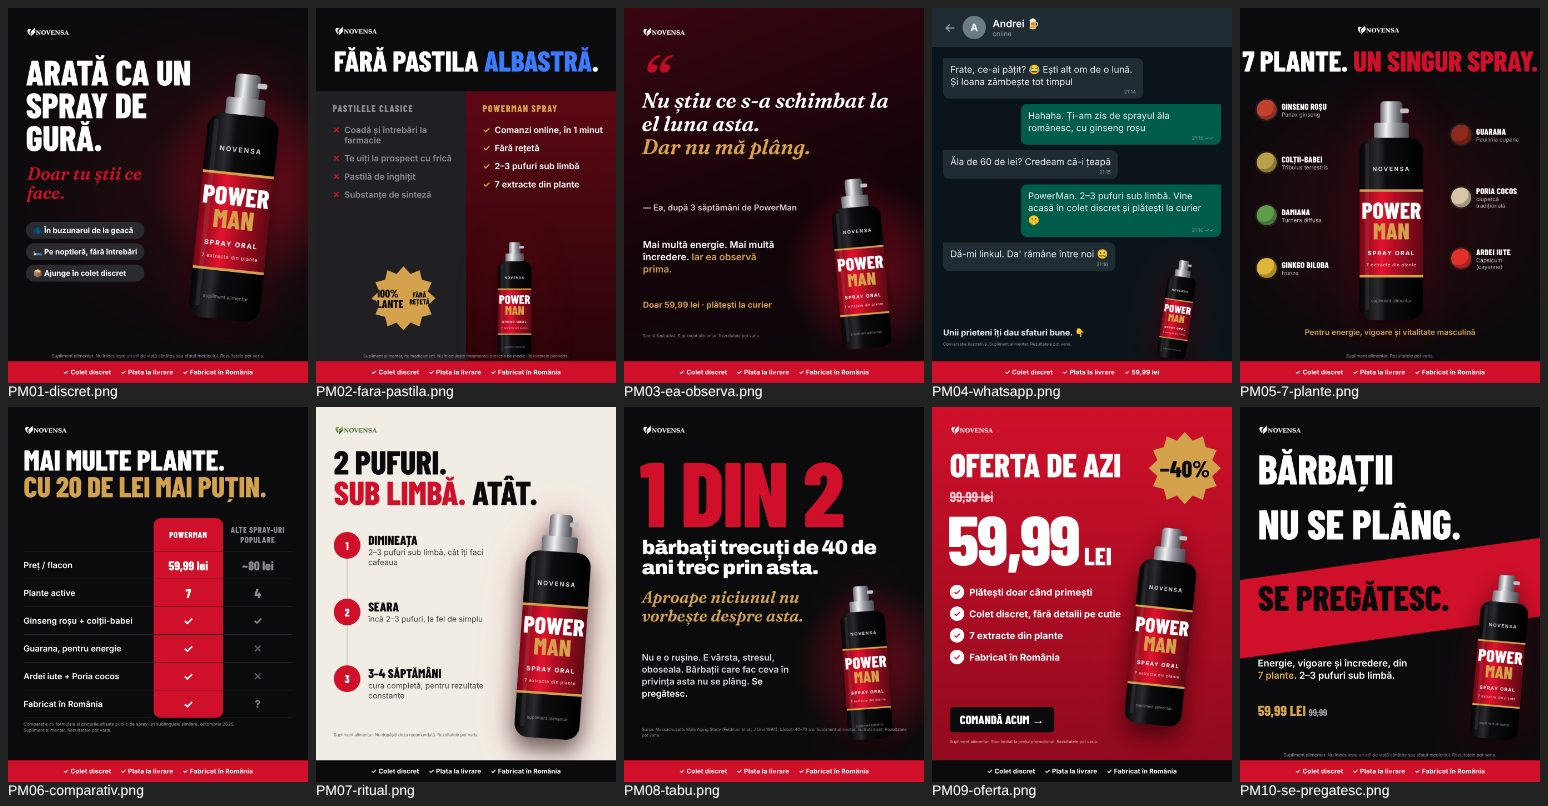
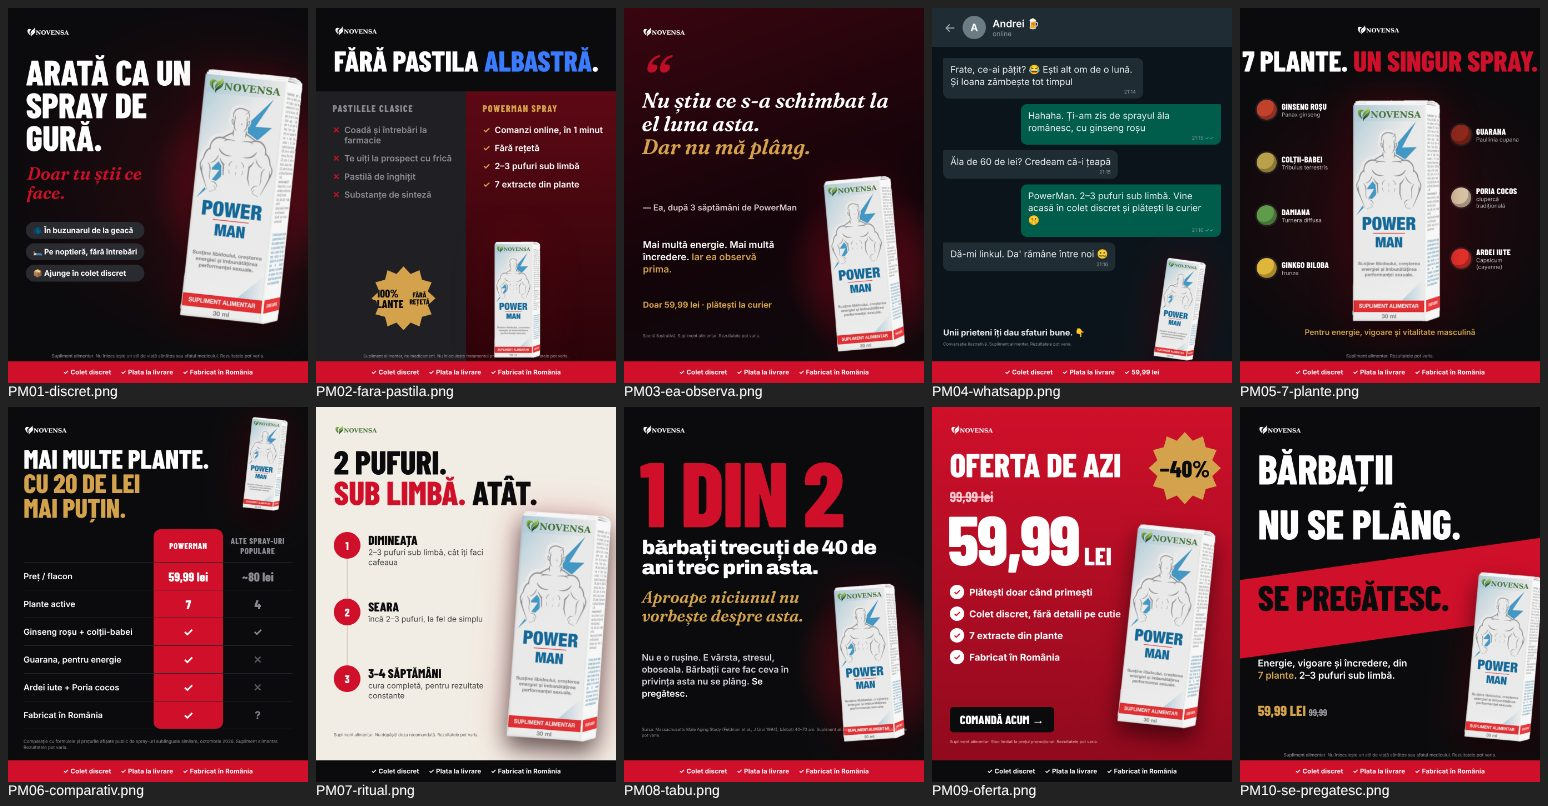
PowerMan ads: use the real product box in all 10 ads
Cut out the uploaded packshot (white background removed) and swap it in
for the drawn placeholder bottle; add the box to PM06 and fix its
disclaimer overlap; note the on-pack wording risk for Meta review.

Claude-Session: https://claude.ai/code/session_013Mng9Y1NXKokmyASYKD5Rn

diff --git a/brand/powerman/ads.js b/brand/powerman/ads.js
@@ -1,5 +1,4 @@
 // PowerMan spray oral (Novensa): 10 statics, 1080x1350.
-// The bottle is a drawn SVG placeholder until a real product photo exists.
 // Image text avoids explicit sexual words on purpose (Meta policy), see STRATEGIE.md.
 // Render: node render.js [id-filter]
 const FONTS = `
@@ -38,31 +37,8 @@ body{font-family:Inter,sans-serif;position:relative;color:#fff;background:${C.bl
 .glow{position:absolute;border-radius:50%;background:radial-gradient(circle,rgba(208,16,43,.45),rgba(208,16,43,0) 68%)}
 `;
 
-// Drawn spray bottle (placeholder for the real packshot). h = rendered height in px.
-let gid = 0;
-const bottle = (h, x, y, rot = 0) => {
-  const g = 'g' + (gid++);
-  return `<svg class="bottle" style="left:${x}px;top:${y}px;height:${h}px;transform:rotate(${rot}deg)" viewBox="0 0 200 560">
-  <defs>
-    <linearGradient id="${g}b" x1="0" x2="1"><stop offset="0" stop-color="#050506"/><stop offset=".28" stop-color="#2b2b31"/><stop offset=".42" stop-color="#0d0d10"/><stop offset="1" stop-color="#000"/></linearGradient>
-    <linearGradient id="${g}m" x1="0" x2="1"><stop offset="0" stop-color="#6d6d74"/><stop offset=".35" stop-color="#f2f2f4"/><stop offset=".6" stop-color="#9a9aa2"/><stop offset="1" stop-color="#4a4a50"/></linearGradient>
-    <linearGradient id="${g}r" x1="0" x2="1"><stop offset="0" stop-color="#7a0716"/><stop offset=".35" stop-color="#e3132f"/><stop offset=".55" stop-color="#b30d24"/><stop offset="1" stop-color="#5e0915"/></linearGradient>
-  </defs>
-  <rect x="72" y="4" width="56" height="58" rx="10" fill="url(#${g}m)"/>
-  <rect x="122" y="22" width="22" height="12" rx="4" fill="#bfbfc5"/>
-  <rect x="56" y="58" width="88" height="40" rx="6" fill="url(#${g}m)"/>
-  <rect x="20" y="96" width="160" height="460" rx="34" fill="url(#${g}b)"/>
-  <rect x="20" y="232" width="160" height="210" fill="url(#${g}r)"/>
-  <rect x="20" y="226" width="160" height="6" fill="${C.gold}"/><rect x="20" y="442" width="160" height="6" fill="${C.gold}"/>
-  <text x="100" y="180" text-anchor="middle" font-family="Inter" font-weight="700" font-size="15" letter-spacing="3" fill="#cfcfd4">NOVENSA</text>
-  <text x="100" y="300" text-anchor="middle" font-family="Barlow" font-weight="800" font-size="58" fill="#fff">POWER</text>
-  <text x="100" y="352" text-anchor="middle" font-family="Barlow" font-weight="800" font-size="58" fill="${C.gold}">MAN</text>
-  <text x="100" y="392" text-anchor="middle" font-family="Inter" font-weight="700" font-size="15" letter-spacing="2.5" fill="#fff">SPRAY ORAL</text>
-  <text x="100" y="420" text-anchor="middle" font-family="Inter" font-weight="400" font-size="11" letter-spacing="1" fill="#ffd9de">7 extracte din plante</text>
-  <text x="100" y="510" text-anchor="middle" font-family="Inter" font-weight="400" font-size="11" fill="#8d8d95">supliment alimentar</text>
-  <rect x="34" y="110" width="10" height="420" rx="5" fill="#fff" opacity=".08"/>
-</svg>`;
-};
+// Real PowerMan box (produs-cutout.png, cut out from produs-original.png). h = rendered height in px.
+const bottle = (h, x, y, rot = 0) => `<img class="bottle" src="../produs-cutout.png" style="left:${x}px;top:${y}px;height:${h}px;transform:rotate(${rot}deg)">`;
 
 const LOGO = '../../logo-novensa.png';
 const logo = (x, y, h = 44, white = true) => `<img class="logo" src="${LOGO}" style="left:${x}px;top:${y}px;height:${h}px;${white ? 'filter:brightness(0) invert(1)' : ''}">`;
@@ -164,7 +140,7 @@ ads.push({ id: 'PM05-7-plante', html: page(`body{background:radial-gradient(90% 
 
 // 06 – Comparativ: mai multe plante, cu 20 de lei mai puțin
 ads.push({ id: 'PM06-comparativ', html: page(`
-  table{position:absolute;left:56px;top:400px;width:968px;border-collapse:separate;border-spacing:0}
+  table{position:absolute;left:56px;top:440px;width:968px;border-collapse:separate;border-spacing:0}
   td,th{height:100px;font:600 30px Inter;border-bottom:2px solid #26262c}
   th{font:800 30px Barlow;letter-spacing:1.5px;text-transform:uppercase;height:120px}
   .us{background:${C.red};color:#fff;text-align:center;width:250px}
@@ -172,7 +148,8 @@ ads.push({ id: 'PM06-comparativ', html: page(`
   tr:first-child .us{border-radius:26px 26px 0 0}tr:last-child .us{border-radius:0 0 26px 26px}
   .ok{color:#fff;font:900 42px Inter}.no{color:#5a5a62;font:900 38px Inter}.big{font:800 46px Barlow}`,
   `${logo(56, 60)}
-  <div class="abs h" style="left:56px;top:140px;font-size:104px;width:980px">Mai multe plante.<br><span class="gold">Cu 20 de lei mai puțin.</span></div>
+  <div class="abs h" style="left:56px;top:140px;font-size:96px;width:800px">Mai multe plante.<br><span class="gold">Cu 20 de lei<br>mai puțin.</span></div>
+  ${bottle(330, 860, 40, 6)}
   <table><tr><th></th><th class="us">PowerMan</th><th class="them">Alte spray-uri<br>populare</th></tr>
   <tr><td>Preț / flacon</td><td class="us big">59,99 lei</td><td class="them big">~80 lei</td></tr>
   <tr><td>Plante active</td><td class="us big">7</td><td class="them big">4</td></tr>
@@ -180,7 +157,7 @@ ads.push({ id: 'PM06-comparativ', html: page(`
   <tr><td>Guarana, pentru energie</td><td class="us ok">✓</td><td class="them no">✕</td></tr>
   <tr><td>Ardei iute + Poria cocos</td><td class="us ok">✓</td><td class="them no">✕</td></tr>
   <tr><td>Fabricat în România</td><td class="us ok">✓</td><td class="them" style="font:800 38px Inter">?</td></tr></table>
-  <div class="abs" style="left:56px;top:1130px;width:780px;font:400 16px/1.4 Inter;opacity:.55">Comparație cu formulele și prețurile afișate public de spray-uri sublinguale similare, octombrie 2026. Supliment alimentar. Rezultatele pot varia.</div>
+  <div class="abs" style="left:56px;top:1192px;width:960px;font:400 16px/1.4 Inter;opacity:.55">Comparație cu formulele și prețurile afișate public de spray-uri sublinguale similare, octombrie 2026. Supliment alimentar. Rezultatele pot varia.</div>
   ${foot()}`) });
 
 // 07 – Ritualul: 2–3 pufuri sub limbă

diff --git a/brand/powerman/STRATEGIE.md b/brand/powerman/STRATEGIE.md
@@ -1,6 +1,8 @@
 # PowerMan spray oral (Novensa): analiză + 10 reclame
 
-> Site-urile novensa-romania.ro, avenora.ro și emag.ro sunt blocate în mediul de lucru, așa că datele vin din indexul de căutare. **De confirmat de tine:** ml/flacon, numărul de pufuri, pachetele (2+1?), cât durează livrarea și dacă pe colet scrie ceva. **Flaconul din imagini e desenat (placeholder):** înlocuiește-l cu poza reală când o ai.
+> Site-urile novensa-romania.ro, avenora.ro și emag.ro sunt blocate în mediul de lucru, așa că datele vin din indexul de căutare. **De confirmat de tine:** numărul de pufuri, pachetele (2+1?), cât durează livrarea și dacă pe colet scrie ceva. Reclamele folosesc **poza reală a cutiei** (30 ml), decupată în `produs-cutout.png`.
+
+> ⚠ Pe cutie scrie „Susține libidoul, creșterea energiei și îmbunătățirea performanței sexuale”. Meta citește textul din imagini, iar „performanței sexuale” poate duce la respingere. Dacă reclamele sunt respinse, fă o poză a cutiei din unghiul lateral sau acoperă rândul acela în poza folosită în reclame.
 
 ---
 
@@ -10,7 +12,7 @@
 |---|---|
 | **Nume** | PowerMan, spray oral pentru vitalitate masculină (Novensa) |
 | **Preț** | **59,99 lei** (redus de la 99,99 lei, −40%) |
-| **Formă** | spray sublingual: 2–3 pufuri, de 2 ori pe zi, cură de 3–4 săptămâni |
+| **Formă** | spray sublingual, 30 ml: 2–3 pufuri, de 2 ori pe zi, cură de 3–4 săptămâni |
 | **Ingrediente** | apă distilată, alcool farmaceutic + **7 extracte**: ginseng roșu, colții-babei (*Tribulus*), damiana, ginkgo biloba, guarana, Poria cocos, ardei iute (cayenne) |
 | **Pe site** | „efect în 5 minute”, „98% rezistență mai mare”, „+100% durată”, „peste 4000 de recenzii”, fabricat în România |
 
